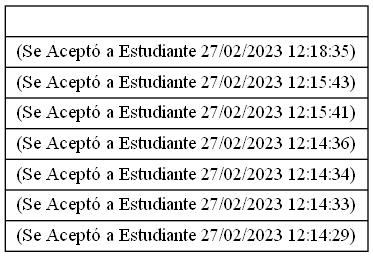
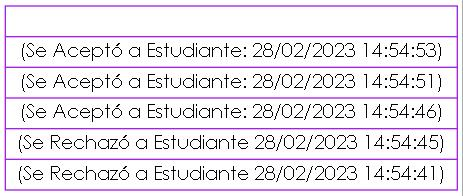
cambiando color graphiz

diff --git a/EDD_Proyecto1_Fase1/estructuras/ListaDoble.go b/EDD_Proyecto1_Fase1/estructuras/ListaDoble.go
@@ -1,6 +1,7 @@
 package estructuras
 
 import (
+	"bytes"
 	"fmt"
 	"strconv"
 )
@@ -116,4 +117,86 @@ func ArchivoJSON(l *ListaDoble) string {
 func Generarjson(l *ListaDoble) {
 	CrearArchivo()
 	EscribirArchivo(ArchivoJSON(l))
+}
+func (l *ListaDoble) GraficarListaDoble() {
+	var a bytes.Buffer
+	nombre_archivo := "./ListaDoble.dot"
+	nombre_imagen := "ListaDoble.jpg"
+	texto := "digraph pila{\n"
+	texto += "rankdir=LR;\n"
+	texto += "node[shape = record]"
+	aux := l.Inicio
+	for aux != nil {
+		a.WriteString(fmt.Sprintf("\"%p\"[label=\"{<prev>|%v|<next>}\"]\n", aux, aux.nestudiante.Nombre))
+		if aux.siguiente != nil {
+			a.WriteString(fmt.Sprintf("\"%p\":next  -> \"%p\":prev\n", aux, &aux.nestudiante.Nombre))
+		}
+		aux = aux.siguiente
+	}
+	texto += ("}\n")
+	crearArchivo(nombre_archivo)
+	escribirArchivoDot(texto, nombre_archivo)
+	ejecutar(nombre_imagen, nombre_archivo)
+}
+
+/*
+	func (l *ListaDoble)GraficaListaDoble(){
+		temporal :=l.Inicio
+		//codigodot :="digraph G{\ngraph[pad=0.5,nodesep=1,ranksep=1,shape=box,fillcolor=deeppink3];\nnode[shape=box, fillcolor=deeppink3,color=darkred]\nfontsize=28;\nede[dir=]"}
+		nodos := ""
+		conexiones:= ""
+		numnodo:=0
+		contador:=0
+		nombre_archivo := "./ListaDoble.dot"
+		nombre_imagen := "ListaDoble.jpg"
+		direccion:= "\n{rank=same; "
+		if l.Longitud<5{
+			for contador !=l.Longitud{
+				nodos += fmt.Sprintf("Nodo%d[label =\" %s\\n %s \"];\n",numnodo,strconv.Itoa(temporal.nestudiante.Carnet),temporal.nestudiante.Apellido)
+				direccion += fmt.Sprintf("Nodo%d;",numnodo)
+				temporal=temporal.siguiente
+				contador++
+				numnodo++
+			}
+			direccion+="}\n"
+			contador=0
+			numnodo=0
+			for contador !=l.Longitud-1{
+				numaux:= numnodo+1
+				conexiones+= fmt.Sprintf("",numnodo,numaux)
+				numnodo++
+				numaux++
+
+			}
+		}
+	}
+*/
+func (l *ListaDoble) GraficarListaDoblee() {
+	nombre_archivo := "./ListaDoble.dot"
+	nombre_imagen := "ListaDoble.jpg"
+	texto := "digraph listadoble{\n"
+	texto += "rankdir=LR;\n"
+	texto += "node[shape = record, style=filled, color=skyblue, fontname=\"Century Gothic\"];\n"
+	texto += "nodonull1[label=\"null\"];\n"
+	texto += "nodonull2[label=\"null\"];\n"
+	aux := l.Inicio
+	contador := 0
+	for i := 0; i < l.Longitud; i++ {
+		texto = texto + "nodo" + strconv.Itoa(i) + "[label=\"{" + aux.nestudiante.Nombre + "  " + aux.nestudiante.Apellido + "  " + strconv.Itoa(aux.nestudiante.Carnet) + "}\"];\n"
+		aux = aux.siguiente
+	}
+	for i := 0; i < l.Longitud-1; i++ {
+		l := i + 1
+		if i == 0 {
+			texto += "nodonull1->" + "nodo" + strconv.Itoa(i) + ";\n"
+		}
+		texto += "nodo" + strconv.Itoa(i) + "->nodo" + strconv.Itoa(l) + ";\n"
+		texto += "nodo" + strconv.Itoa(l) + "->nodo" + strconv.Itoa(i) + ";\n"
+		contador = l
+	}
+	texto += "nodo" + strconv.Itoa(contador) + "->nodonull2;\n"
+	texto += "}"
+	crearArchivo(nombre_archivo)
+	escribirArchivoDot(texto, nombre_archivo)
+	ejecutar(nombre_imagen, nombre_archivo)
 }

diff --git a/EDD_Proyecto1_Fase1/main.go b/EDD_Proyecto1_Fase1/main.go
@@ -40,7 +40,7 @@ func main() {
 			fmt.Scan(&contrasenia)
 			fmt.Print("")
 			if usuario == "admin" && contrasenia == "admin" {
-				fmt.Println("Se inició Correctamente")
+				fmt.Println("Bienvenido Administrador")
 				//Println("entró con éxito")
 				main2()
 				//pila.Push(formato_hora())
@@ -155,7 +155,7 @@ func MostrarPrimerEstudiante() {
 	exit := false
 	for !exit {
 		fmt.Println("************* Listado de Estudiantes*************")
-		fmt.Println("1. Mostrar un Estudiante")
+		fmt.Println("1. Mostrar Estudiantes")
 		fmt.Println("2. Regresar")
 		fmt.Scan(&option)
 		fmt.Print("Elige una Opción: ")
@@ -165,6 +165,8 @@ func MostrarPrimerEstudiante() {
 			fmt.Println("Estudiantes Ordenados ")
 			lista.OrdenamientoInsercion()
 			lista.MostrarLista()
+			lista.GraficarListaDoblee()
+			//lista.GraficarListaDoble()
 			//ACA DEBEN DE IR ESTUDIANTES ORDENADOS----------------------------------------------------------------------
 			//cola.MostrarPrimero()-------------aca no va nada
 			//pila.Graficar()
@@ -197,7 +199,8 @@ func EstudiantesPendientes() {
 				//Desencola y manda a lista doble
 				lista.AgregarEstudiante(cola.CambioCola().Nombre, cola.CambioCola().Apellido, cola.CambioCola().Carnet, cola.CambioCola().Password)
 				cola.Descolar()
-				pila.Push("Se Aceptó a Estudiante " + formato_hora())
+				pila.Push("Se Aceptó a Estudiante: " + formato_hora())
+
 				pila.Graficar()
 				estructuras.Generarjson(lista)
 				//estructuras.CrearArchivo()
@@ -264,7 +267,7 @@ func formato_hora() string {
 
 // ------------------------------------------CARGA DE ESTUDIANTES------------------------------------------------------------------------
 func CargaMasivadeArchivos() {
-	fmt.Println("******************************CARGA MASIVA***********")
+	fmt.Println("***********************************CARGA MASIVA*********************")
 	file, eror := os.Open("Estudiantes.csv")
 	if eror != nil {
 		panic(eror)

diff --git a/EDD_Proyecto1_Fase1/estructuras/cola_estudiantes.go b/EDD_Proyecto1_Fase1/estructuras/cola_estudiantes.go
@@ -68,7 +68,7 @@ func (c *Cola) GraficarEstudiantes() {
 	nombre_imagen := "cola.jpg"
 	texto := "digraph cola{\n"
 	texto += "rankdir=LR;\n"
-	texto += "node[shape = record];\n"
+	texto += "node[shape = record, style=filled, color=yellow, fontname=\"Century Gothic\"];\n"
 	texto += "nodonull2[label=\"null\"];\n"
 	aux := c.Primero
 	contador := 0

diff --git a/EDD_Proyecto1_Fase1/estructuras/colatiempo.go b/EDD_Proyecto1_Fase1/estructuras/colatiempo.go
@@ -52,7 +52,7 @@ func (c_ *Cola_) Graficar() {
 	nombre_imagen := "cola.jpg"
 	texto := "digraph cola{\n"
 	texto += "rankdir=LR;\n"
-	texto += "node[shape = record];\n"
+	texto += "node[shape = record, style=filled, color=pink, fontname=\"Century Gothic\"];\n"
 	texto += "nodonull2[label=\"null\"];\n"
 	aux := c_.Primero_
 	contador := 0

diff --git a/EDD_Proyecto1_Fase1/estructuras/pilatiempo.go b/EDD_Proyecto1_Fase1/estructuras/pilatiempo.go
@@ -51,7 +51,7 @@ func (p *Pila) Graficar() {
 	nombre_imagen := "pila.jpg"
 	texto := "digraph pila{\n"
 	texto += "rankdir=LR;\n"
-	texto += "node[shape = record]"
+	texto += "node[shape = record, color=purple, fontname=\"Century Gothic\"]"
 	aux := p.Primero_
 	texto += "nodo0 [label=\""
 	for i := 0; i < p.Longitud; i++ {

diff --git a/EDD_Proyecto1_Fase1/ManualTecnico.md b/EDD_Proyecto1_Fase1/ManualTecnico.md
@@ -1,0 +1,29 @@
+# MANUAL TÉCNICO 
+---
+## Proyecto 1 - Fase 1
+## Primer Semestre 2023
+## Facultad de Ingeniería, Escuela de Ciencias y Sistemas
+## Universidad de San Carlos de Guatemala
+---
+1.	Introducción
+La Aplicación realizada en el lenguje de programación Golang fue realizada con el fin de poder dar resolución al problema planteado en el curso de Estructura de Datos. Este programa hecho en Golang recibió apoyo de las Librería Graphiz, la Librería Time, y la Librería encoding/csv.
+---
+2.	Objetivo
+El Objetivo primordial de este manual es orientar al programador acerca de la explicación de la forma en la que fue creada la aplicación desde el código fuente, la ubicación de la aplicación de las estructuras de datos y la importante utilización de la Programación Orientada a Objetos en Golang para poder crear distintos TDA para la resolución de sus requerimientos del sistema.
+---
+3.	Dirigido 
+El manual va dirigido a distintos programadores interesados en el conocimiento de las estructuras de datos y su implementación en Golang.
+---
+4. Especificación Técnica
+4.1 Requisitos de Hardware
+- Computadora de Escritorio o Portatil 
+- Minimo 4GB de RAM
+- Procesador Intel Core i3 o Superior
+- Resolución Gráfica Máxima de 1900 x 1070 Píxeles
+4.2 Requisitos de Software
+- Computadora con Visual Basic Instalado para el uso de la Aplicación
+- Tener Instalada la Librería Graphiz
+---
+5. Lógica de la Aplicación
+1.1 Funciones de la Aplicación
+
